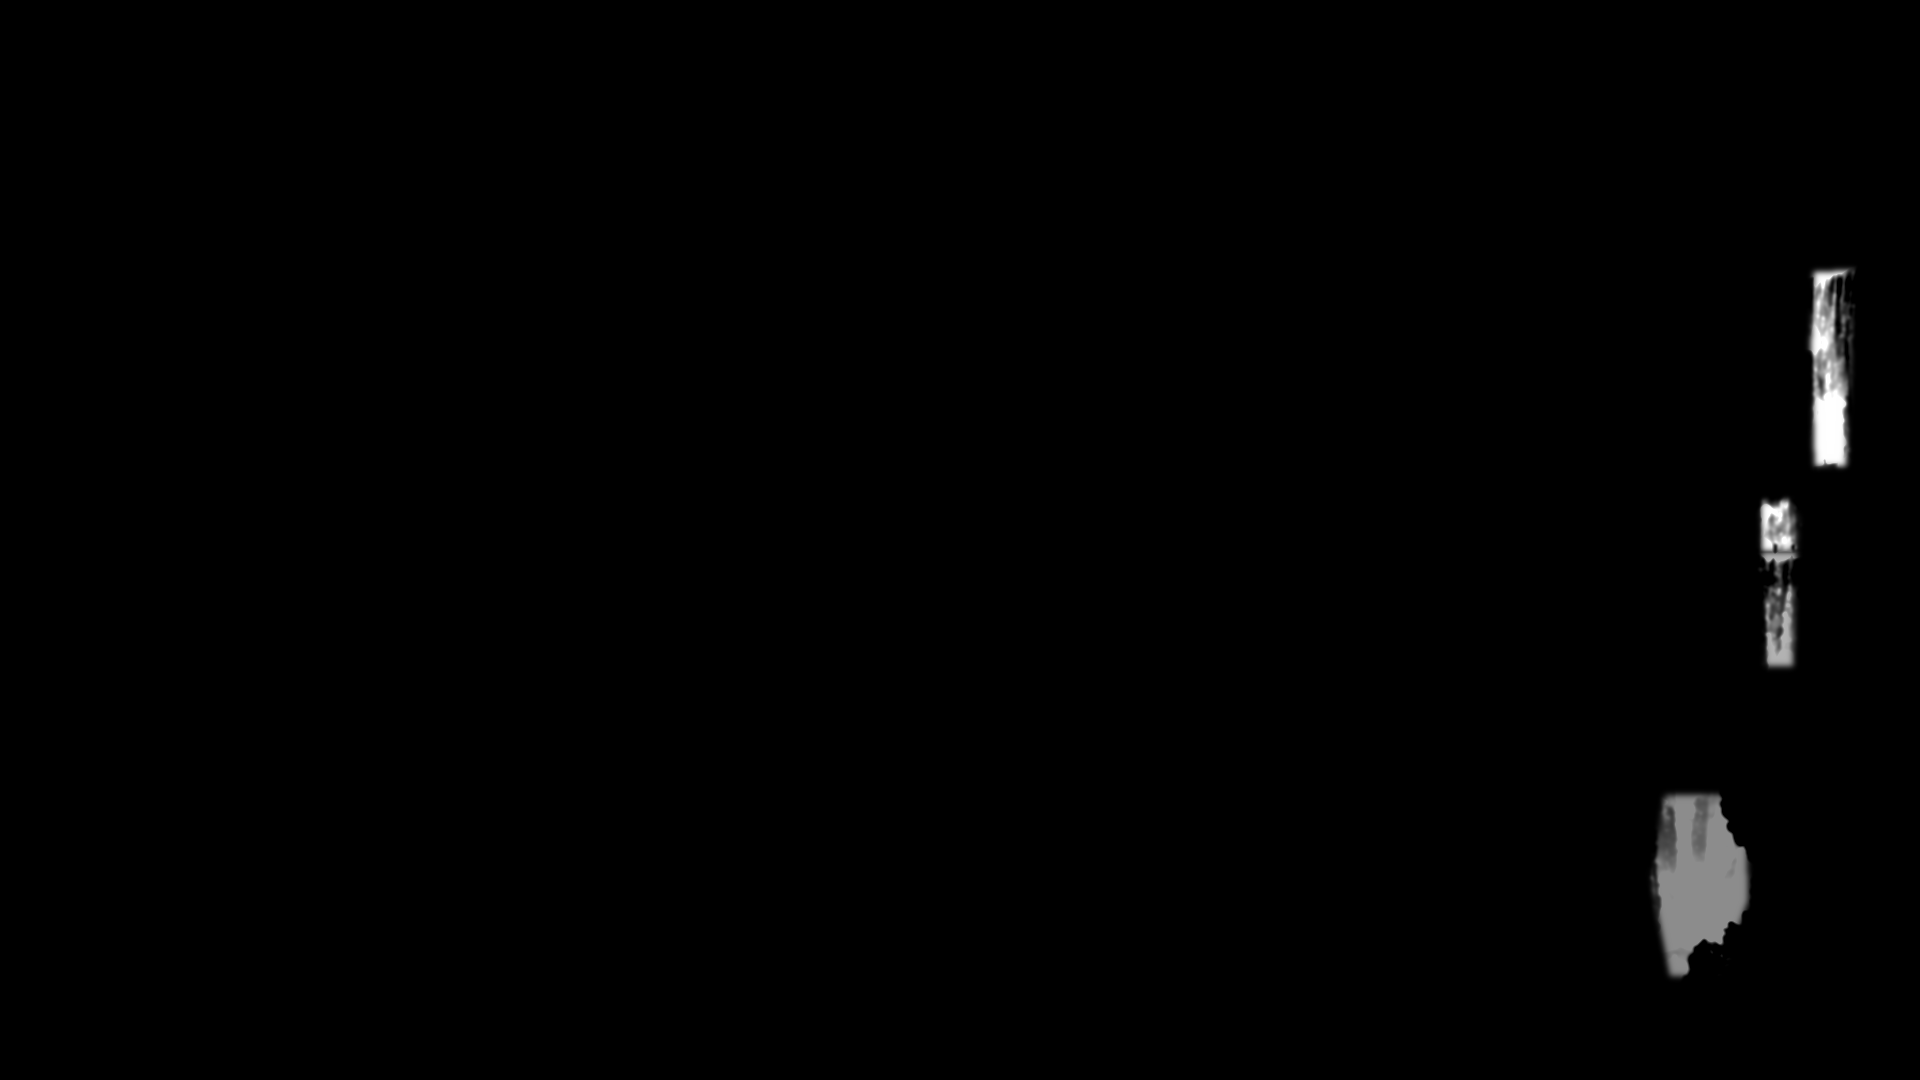
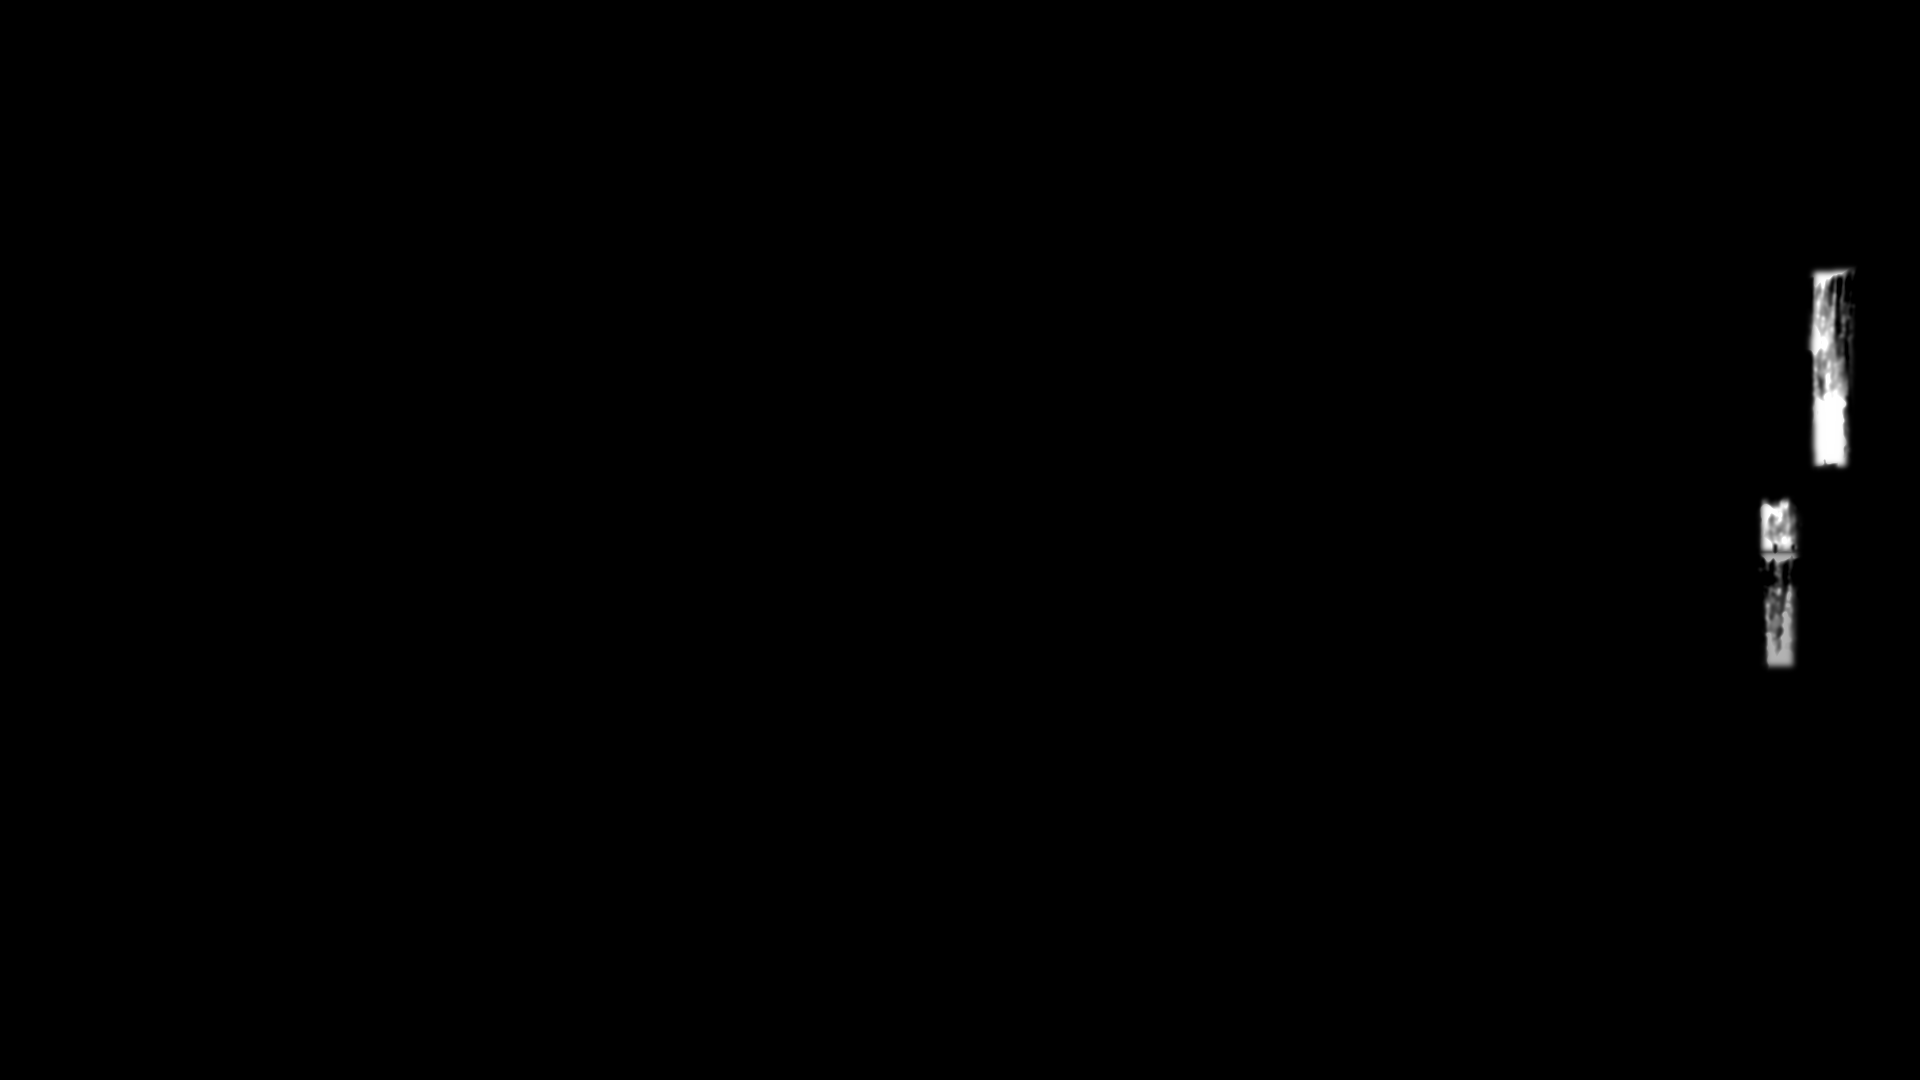
Accueil : retrait de l'effet d'eau du bas (sous le pont inférieur)

Changed region(s): [[0.8438, 0.7333, 0.9375, 0.9167]]

diff --git a/tools/make_waterfall_mask.py b/tools/make_waterfall_mask.py
@@ -12,7 +12,6 @@ POLYS = [   # (polygone, poids)
     ([(3628, 545), (3708, 540), (3700, 700), (3690, 930), (3630, 930), (3622, 700)], 1.0),       # grande chute, sous le pont du haut
     ([(3522, 1005), (3594, 1000), (3592, 1100), (3525, 1100)], 1.0),                             # petite chute, sous le pont du milieu
     ([(3525, 1105), (3590, 1105), (3585, 1330), (3530, 1330)], 0.7),                             # filets sous ce pont
-    ([(3330, 1590), (3490, 1590), (3495, 1800), (3440, 1950), (3340, 1950), (3300, 1750)], 0.55),  # brume d'eau du fond
 ]
 
 def main():

diff --git a/docs/TECHNIQUE.md b/docs/TECHNIQUE.md
@@ -527,6 +527,6 @@ Après TripoSR, `Converter._bake_command` copie `res://tools_py/bake_texture.py`
 - Éclairage des monstres Atlas Noir (2026-10-31) : en plus du matériau éclairé, `make_monster.py` écrit une carte de normales par pose (`<id>[_attack|_attack2|_hit|_dead]_n.webp`, relief tiré de la luminance du dessin + silhouette arrondie sur 16 px ; imports `compress/normal_map=1`, mipmaps, sans perte). `EntityLayer._lit_material` la charge si elle existe (`normal_texture`) et ajoute un liseré de lumière (`rim` 0,25) : la torche et les lampes sculptent le monstre au lieu de l'éclairer à plat. Mort : la pose « à terre » reprenait l'auto-éclairage (`emission_texture`) de la pose debout, d'où un voile clair sur le corps ; elle prend maintenant les textures de la pose à terre, et l'auto-éclairage et le liseré s'éteignent avec le fondu. `tools/shot_veilleur.gd` capture aussi une image à mi-fondu (`_fade.png`).
 - File d'initiative et monstres Atlas Noir : le monstre entier y était illisible (une silhouette de 50 px). `EntityLayer.BUSTS` (id → centre x, centre y, demi-côté, en fractions de l'image d'attente) donne le cadrage du visage ; `EntityLayer.bust_texture` découpe cette zone, la réduit à 192 px (Lanczos) avec mipmaps et la met en cache ; `QueueBar` l'affiche en médaillon rond à anneau rouge (les héros ont l'anneau doré), filtrage `LINEAR_WITH_MIPMAPS_ANISOTROPIC` pour éviter le crépitement. **À renseigner pour chaque nouveau monstre** (sans entrée, l'ancienne vignette plein corps est utilisée). Cadrages actuels : Veilleur Os, Fossoyeur, Veuve des Cryptes, Porte-Cercueil.
 - Donjon de test « Atlas Noir » : onglet Tests du panneau super admin, section « Test local » (bouton « Test — Atlas Noir »). Partie aléatoire locale de 4 niveaux 15×13, difficulté normale, hors ligne, hors classement, sans essai consommé, titre « Test Atlas Noir ». `DungeonGenerator.atlas_only` fait que `pick_tiered_monster` ne tire que dans `atlas_pool()`, c'est-à-dire la catégorie d'icônes « Monstres Atlas Noir » de `ICON_CATALOG` : tout nouveau monstre ajouté à cette catégorie y entre sans autre réglage. Les boss restent les anciens tant qu'aucun boss Atlas Noir n'existe. Vérification automatique : `godot --headless --path . res://tools/check_atlas_test.tscn` (aucun monstre hors catégorie sur un donjon généré).
-- Cascades animées de l'accueil : `HomeScreen.WATERFALL_SHADER` (canvas_item additif) posé sur l'image de fond avec le même cadrage « cover » que les flammes (`_make_waterfalls`, `_layout_flames`). Filets d'eau = bruit de valeur étiré en hauteur, trois couches à vitesses différentes qui descendent (vitesses en pixels du fond par seconde), léger scintillement. Le masque `assets/home/waterfall_mask.png` (1920×1080) est produit par `tools/make_waterfall_mask.py` : polygones tracés à la main sur `home_bg.png` (grande chute, petite chute, filets, brume du fond) multipliés par la clarté locale de l'image, donc seule l'eau déjà claire s'anime. Si le fond change, retracer les polygones du script. `tools/shot_home.gd` prend maintenant deux images à 0,6 s d'écart pour vérifier le mouvement.
+- Cascades animées de l'accueil : `HomeScreen.WATERFALL_SHADER` (canvas_item additif) posé sur l'image de fond avec le même cadrage « cover » que les flammes (`_make_waterfalls`, `_layout_flames`). Filets d'eau = bruit de valeur étiré en hauteur, trois couches à vitesses différentes qui descendent (vitesses en pixels du fond par seconde), léger scintillement. Le masque `assets/home/waterfall_mask.png` (1920×1080) est produit par `tools/make_waterfall_mask.py` : polygones tracés à la main sur `home_bg.png` (grande chute, petite chute, filets ; la brume d'eau du bas, sous le pont inférieur, a été retirée à la demande de l'auteur) multipliés par la clarté locale de l'image, donc seule l'eau déjà claire s'anime. Si le fond change, retracer les polygones du script. `tools/shot_home.gd` prend maintenant deux images à 0,6 s d'écart pour vérifier le mouvement.
 - Veilleur Os, 2e version (2026-10-31) : planche d'une seule rangée de cinq poses (2172×724) qui remplace la première, importée sans réduction ni flou (pose d'attente ≈ 535 px de haut, carré de 720 px ; la pose d'attaque épée levée fixe la taille du carré). `make_monster.py` détecte seul une planche large (plus de 2,2 fois plus large que haute) et ordonne les poses de gauche à droite. Ligne `veilleur` de `MON_HEIGHTS` ramenée à 1,77 et cadrage du buste `[0.50, 0.29, 0.12]`.
 - Veilleur Os, 3e version (2026-10-31, haute définition) : cinq images séparées (≈ 1250 px, pose d'attente haute de 1164 px dans un carré de 1408 px, webp sans perte, environ 7 Mo en tout). `make_monster.py <id> repos attaque coup attaque2 mort` accepte désormais cinq images (en plus d'une planche) : comme chaque pose est dessinée à part, `_scales` retrouve leur échelle relative à l'attente par appariement de points SIFT sur les détails rigides (crânes, boucles, écailles) et une similitude RANSAC (OpenCV, facultatif ; échelles du Veilleur : 1,014 / 0,951 / 0,921 / 1,077), puis les remet à la même taille (Lanczos en alpha prémultiplié, seulement si l'écart dépasse 2 %). Les cartes de normales sont enregistrées à moitié de la définition quand le carré dépasse 1000 px (le relief n'en a pas besoin ; mémoire vidéo divisée par deux pour elles). Ligne `veilleur` de `MON_HEIGHTS` : 1,59 ; buste `[0.49, 0.265, 0.12]`.
